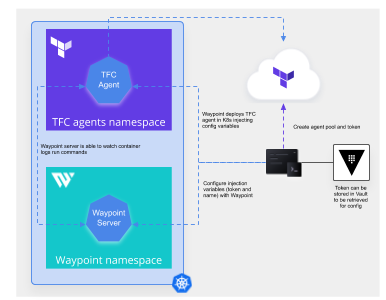
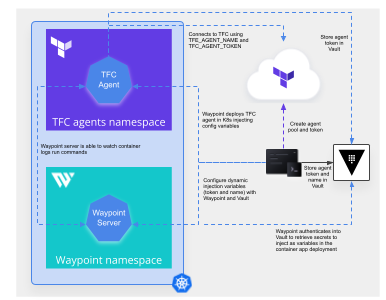
Whole update to Waypoint variables and Vault

diff --git a/README.md b/README.md
@@ -13,6 +13,7 @@ There are some **security concerns** then about managing variables definitions i
 
 So, I have decided to use a simple deployment tool like [Waypoint](https://www.waypointproject.io/) that helps on this by:
 * Injecting the container variables without the need to define them on the manifest, so you can secure the process in different ways
+* Using HashiCorp Vault to store the Terraform Cloud Agent token in a secured way
 * Watching container logs on the agent without having to access the Kubernetes cluster from your local machine
 * To update your agent is as simple as running the following command: `waypoint up`
 
@@ -23,12 +24,13 @@ Following high level diagram explains the deployment:
 ![Waypoint TFC agent deployment diagram](./docs/Waypoint_TFC_Agents.png)
 
 ## Requirements
-* Waypoint [binary](https://www.waypointproject.io/downloads)
+* Waypoint [binary](https://www.waypointproject.io/downloads) 0.5.2+
 * Docker installed
 * A Kubernetes cluster (I use [Minikube](https://kubernetes.io/docs/tutorials/kubernetes-basics/create-cluster/cluster-intro/) for a local test)
 * [kubectl](https://kubernetes.io/docs/tasks/tools/install-kubectl/) tool
 * [Terraform Cloud account](https://app.terraform.io/app) with a Business tier subscription
 * A Terraform Cloud [organization token](https://www.terraform.io/docs/cloud/users-teams-organizations/api-tokens.html#organization-api-tokens)
+* A Vault instance accessible by your terminal and your agent containers (you can use [HCP Vault](https://portal.cloud.hashicorp.com/sign-up?utm_source=cloud_landing&utm_content=offers_vault) free credits)
 
 ## A secured happy path (using Vault to store Terraform Cloud agent pool token)
 
@@ -45,15 +47,17 @@ export TFE_ORG=<your_terraform_org_name>
 
 kubectl create ns waypoint
 
-waypoint install -platform=kubernetes -namespace=waypoint -context-create="waypoint-kubernetes" -accept-tos
+waypoint install -platform=kubernetes -k8s-namespace=waypoint -context-create="waypoint-kubernetes" -accept-tos
+
+waypoint server config-set -advertise-addr=waypoint.waypoint:9701 -advertise-tls=true -advertise-tls-skip=true
 
 waypoint init
 
-waypoint ui -authenticate
-
-./script.sh
+./script.sh $TFE_ORG
 
 waypoint up -app agent-kubernetes
+
+waypoint ui -authenticate
 ```
 
 Then, you can access or execute any command in the container of the agent by using waypoint. For example, if you want to access to the container's terminal:
@@ -66,9 +70,13 @@ And you can access to the containers logs (you can [use also de UI](#deploy-the-
 waypoint logs -app agent-kubernetes
 ```
 
-## Create an agent pool token in Terraform Cloud
+## The manual process
 
-You need to edit or create an agent pool in Terraform Cloud and generate a pool token:
+If you want to create every step by your own you can follow the following sections
+
+### Create an agent pool token in Terraform Cloud
+
+You need to edit or create an agent pool in Terraform Cloud and generate a pool token. You can do it easily with the Terraform Cloud API as follows:
 
 * Creating the agents pool with the API (edit your `TFE_TOKEN` and `TFE_ORG` environment variables with your **organization name** and **organization token** from Terraform Cloud):
 ```bash
@@ -97,13 +105,35 @@ TFC_AGENT_TOKEN=$(cat << EOF | curl -s -H "Authorization: Bearer $TFE_TOKEN" -H 
 EOF)
 ```
 
-## Install Waypoint and initialize the project
+### Store your secrets (TFC agent name and agent token) in Vault
+
+> NOTE: Bear in mind that you are storing the previous data created from Terraform Cloud, so if you did it manually, just copy the Terraform Agent token created before and use it as your `$TFC_AGENT_TOKEN` variable.
+
+Configure your Vault variables `$VAULT_ADDR`, `$VAULT_TOKEN` and `VAULT_NAMESPACE` (if using Vault Enterprise or HCP Vault) and create the secrets with:
+
+```bash
+vault secrets enable -path=waypoint kv
+
+vault kv put waypoint2/tfc tfc_name=tfc-agent tfc_token=$TFC_AGENT_TOKEN
+```
+
+Check that the secrets are stored. Here is the example of the command and output:
+```
+$ vault kv get waypoint/tfc
+====== Data ======
+Key          Value
+---          -----
+tfc_name     tfc-agent
+tfc_token    PCeOzEHFQwEb8A.atlasv1.myIzFm....
+```
+
+### Install Waypoint and initialize the project
 
 You can install Waypoint as a Docker container, in Kubernetes, using Nomad, or runnig standalone. Here, we are going to use the same Kubernetes cluster where we are deploying the TFC agent (we create a `waypoint` namespace to deploy):
 ```bash
 kubectl create ns waypoint
 
-waypoint install -platform=kubernetes -nasmespace=waypoint -context-create="tfc-kubernetes-context" -accept-tos
+waypoint install -platform=kubernetes -k8s-nasmespace=waypoint -context-create="tfc-kubernetes-context" -accept-tos
 ```
 
 You can verify that you can connect to the Waypoint server:
@@ -111,6 +141,16 @@ You can verify that you can connect to the Waypoint server:
 $ waypoint context verify
 ✓ Context "tfc-kubernetes-context" connected successfully.
 ```
+
+We want to be sure that all the [Waypoint Entrypoint variables](https://www.waypointproject.io/docs/waypoint-hcl/variables/entrypoint) are going to be injected to our deployment. Even though that this should be set by default in the previous installation, we just execute the following command to reconfigure correctly:
+
+```bash
+waypoint server config-set -advertise-addr=waypoint.waypoint:9701 \
+-advertise-tls=true \
+-advertise-tls-skip-verify=true
+```
+
+> NOTE: Look at the `-advertise-addr=waypoint.waypoint:9701` parameter. This value is for the service used in our Kubernetes deployment, so our agent entrypoint that is going to be deployed in the same Kubernetes cluster is able to connect.
 
 Now, from the root path of this repo (where the `waypoint.hcl` configuration file is located), run:
 ```bash
@@ -127,24 +167,91 @@ waypoint ui -authenticate
 ![tfc-agents project](./docs/tfc-agents_project.png)
 
 
-## Deploy the TFC agent with Waypoint
+### Deploy the TFC agent with Waypoint
 
-Now it is time to deploy the Terraform Cloud agent. First set the `waypoint config` with the previous variables defined:
+The TFC Agent name and token are retrieved from Vault through the Waypoint Configuration in the `waypoint.hcl`. You can check that the block is already defined there:
 
-```bash
-waypoint config set -app agent-kubernetes TFC_AGENT_TOKEN=$TFC_AGENT_TOKEN
-waypoint config set -app agent-kubernetes TFC_AGENT_NAME="tfc-agent-demo"
+```hcl
+config {
+  env = {
+    "TFC_AGENT_NAME" = configdynamic("vault", {
+      path = "waypoint/tfc"
+      key = "tfc_name"
+    })
+    "TFC_AGENT_TOKEN" = "${configdynamic("vault", {
+      path = "waypoint/tfc"
+      key = "tfc_token"
+    })}"
+  }
+}
 ```
 
+Now it is time to deploy the Terraform Cloud agent. Let's synchronize first the Waypoint injection variables:
+```bash
+waypoint config sync -app agent-kubernetes
+```
+
+And we can check that it is configured:
+```
+$ waypoint config get 
+  SCOPE |      NAME       |        VALUE         
+--------+-----------------+----------------------
+        | TFC_AGENT_NAME  | <dynamic via vault>  
+        | TFC_AGENT_TOKEN | <dynamic via vault> 
+```
+
+Let's deploy now the agent in the Kubernetes cluster (configured to deploy to `tfc` namespace):
 
 ```bash
 waypoint up -app agent-kubernetes
 ```
 
-That's all! You will see your TFC agent connected into the pool:
+That's all! You will see your TFC agent connected into the pool in the Terraform Cloud UI:
 
 ![tfc-agents deployed](./docs/tfc-agent-deployed.png)
 
 Also, you can check the agents logs from the Waypoint Project UI:
 
 ![TFC Agents logs](./docs/Waypoint-tfc-agent-logs.png)
+
+Or doing it by CLI (output included):
+```
+$ waypoint logs -app agent-kubernetes
+2021-09-29T16:38:30.827Z V9FQDS: [INFO]  entrypoint: entrypoint starting:
+deployment_id=01FGS6FRM792NZC8P00X6TNJ4E instance_id=01FGS6QZM5XCAN7X7NH5V9FQDS
+args=["/home/tfc-agent/bin/tfc-agent"]
+2021-09-29T16:38:30.827Z V9FQDS: [INFO]  entrypoint: entrypoint version: full_string=v0.5.1 version=v0.5.1
+prerelease="" metadata="" revision=""
+2021-09-29T16:38:30.827Z V9FQDS: [INFO]  entrypoint: server version info: version=v0.5.2 api_min=1
+api_current=1 entrypoint_min=1 entrypoint_current=1
+2021-09-29T16:38:31.737Z V9FQDS: [INFO]  entrypoint.config.watcher: env vars changed, sending new child
+command
+2021-09-29T16:38:31.737Z V9FQDS: [INFO]  entrypoint.child: starting child process:
+args=["/home/tfc-agent/bin/tfc-agent"] cmd=/home/tfc-agent/bin/tfc-agent
+2021-09-29T16:38:31.746Z V9FQDS: 2021-09-29T16:38:31.746Z [INFO]  agent: Starting: name=tfc-agent
+version=0.4.1
+2021-09-29T16:38:31.761Z V9FQDS: 2021-09-29T16:38:31.760Z [INFO]  core: Starting: version=0.4.1
+2021-09-29T16:38:32.517Z V9FQDS: 2021-09-29T16:38:32.516Z [INFO]  core: Agent registered successfully with
+Terraform Cloud: id=agent-fX9kYCDzcQgm5Noh pool-id=apool-vWL1yZP17UmSYkev
+2021-09-29T16:38:32.646Z V9FQDS: 2021-09-29T16:38:32.646Z [INFO]  agent: Core version is up to date:
+version=0.4.1
+2021-09-29T16:38:32.647Z V9FQDS: 2021-09-29T16:38:32.646Z [INFO]  core: Waiting for next job
+```
+
+## Undeploy the agent
+
+It is very simple to remove the deployment of the agent:
+
+```bash
+waypoint destroy -app agent-kubernetes -auto-approve
+```
+
+You should see that kubernetes deployment, pod and replicaSet are deleted (CLI output shown):
+```
+» Destroying deployments for application 'agent-kubernetes'...
+✓ Executing kubectl to destroy...
+ │ pod "tfc-agent-55b78f4c6d-8rqzx" deleted
+ │ deployment.apps "tfc-agent" deleted
+ │ replicaset.apps "tfc-agent-55b78f4c6d" deleted
+Destroy successful!
+```
